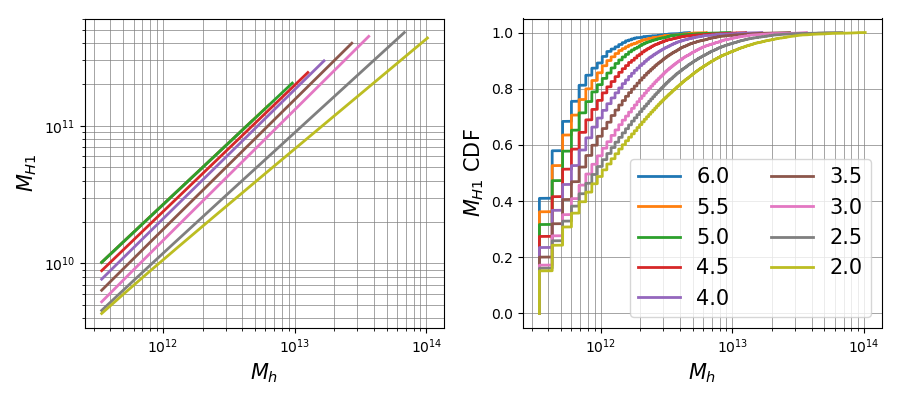
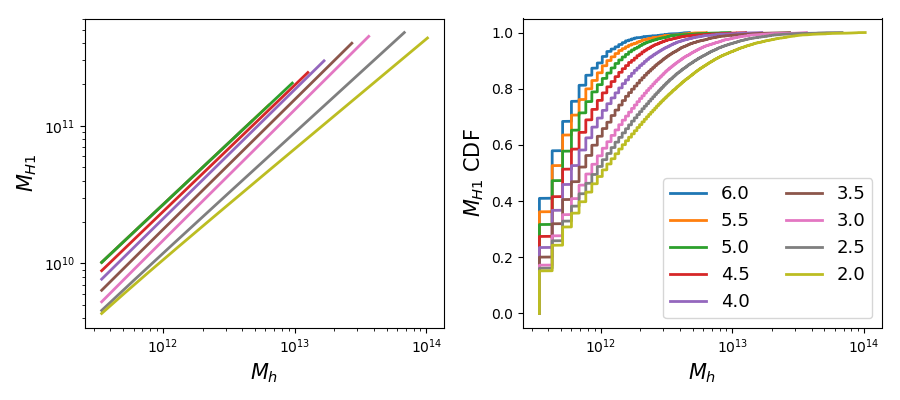
save mesh, power, calc bias

diff --git a/code/simpleplots.py b/code/simpleplots.py
@@ -19,8 +19,8 @@ zzfiles = [round(tools.atoz(aa), 2) for aa in aafiles]
 #Paramteres
 #Maybe set up to take in as args file?
 bs, nc = 256, 256
-#ncsim, sim, prefix = 256, 'lowres/%d-9100-fixed'%256, 'lowres'
-ncsim, sim, prefix = 2560, 'highres/%d-9100-fixed'%2560, 'highres'
+ncsim, sim, prefix = 256, 'lowres/%d-9100-fixed'%256, 'lowres'
+#ncsim, sim, prefix = 2560, 'highres/%d-9100-fixed'%2560, 'highres'
 
 
 
@@ -32,21 +32,19 @@ def plotH1pk(fname, nc=256, fsize=15):
     fig, ax = plt.subplots(1, 2, figsize = (9,4)) # 
     for i, aa in enumerate(aafiles):
         zz = zzfiles[i]
-        halos = BigFileCatalog(project + sim+ '/fastpm_%0.4f/halocat/'%aa)
-        hmass, h1mass = halos["Mass"].compute(), halos['H1mass'].compute()
-        hpos = halos['Position'].compute()
+        print(zz)
+        path = project + sim+ '/fastpm_%0.4f/'%aa
+        k, pkm = np.loadtxt(path + 'pkm.txt').T[0], np.loadtxt(path + 'pkm.txt').T[1] 
+        pkh = np.loadtxt(path + 'pkhmass.txt').T[1]
+        pkhp = np.loadtxt(path + 'pkhpos.txt').T[1]
+        pkh1 = np.loadtxt(path + 'pkh1mass.txt').T[1]
+        pkhm = np.loadtxt(path + 'pkhmassxm.txt').T[1]
+        pkh1m = np.loadtxt(path + 'pkh1massxm.txt').T[1]
+        pkhpm = np.loadtxt(path + 'pkhposxm.txt').T[1]
         
-
-        hpmesh = pm.paint(hpos)
-        hmesh = pm.paint(hpos, mass=hmass)
-        h1mesh = pm.paint(hpos, mass=h1mass)
-        pkh = FFTPower(hmesh/hmesh.cmean(), mode='1d').power
-        pkhp = FFTPower(hpmesh/hpmesh.cmean(), mode='1d').power
-        pkh1 = FFTPower(h1mesh/h1mesh.cmean(), mode='1d').power
-        
-        ax[0].plot(pkh['k'], pkh['power'], label=zz, color='C%d'%i)
-        ax[0].plot(pkh['k'], pkhp['power'], label=zz, ls="--", color='C%d'%i)
-        ax[1].plot(pkh1['k'], pkh1['power'], label=zz, color='C%d'%i) # 
+        ax[0].plot(k, pkh, label=zz, color='C%d'%i)
+        ax[0].plot(k, pkhp, label=zz, ls="--", color='C%d'%i)
+        ax[1].plot(k, pkh1, label=zz, color='C%d'%i) # 
     
     ax[1].legend(ncol=2, fontsize=13)
     ax[0].set_ylabel('P(k) Halos (Mass/Position)', fontsize=fsize)
@@ -54,60 +52,59 @@ def plotH1pk(fname, nc=256, fsize=15):
 
     for axis in ax: 
         axis.set_xlim(2e-2, 1)
-        axis.set_ylim(9e1, 2e4)
+        axis.set_ylim(9e1, 5e4)
         axis.loglog()
-        axis.grid(which='both', lw=0.5, color='gray')
+        #axis.grid(which='both', lw=0.5, color='gray')
+    fig.tight_layout()
     fig.savefig(figpath + fname)
 
 
-##
-##def plotH1bias(fname, nc=256, fsize=15):
-##    '''plot the power spectrum of halos and H1 on 'nc' grid'''
-##
-##    pm = ParticleMesh(BoxSize = bs, Nmesh = [nc, nc, nc])
-##
-##    fig, ax = plt.subplots(1, 2, figsize = (9,4)) # 
-##    for i, aa in enumerate(aafiles):
-##        zz = zzfiles[i]
-##        dmcat = BigFileCatalog(scratch + sim + '/fastpm_%0.4f/'%aa, dataset='1')
-##        halos = BigFileCatalog(project + sim+ '/fastpm_%0.4f/halocat/'%aa)
-##        hmass, h1mass = halos["Mass"].compute(), halos['H1mass'].compute()
-##        hpos = halos['Position'].compute()
-##        
-##        dmesh = pm.paint(dmcat['Position'])
-##        hpmesh = pm.paint(hpos)
-##        hmesh = pm.paint(hpos, mass=hmass)
-##        h1mesh = pm.paint(hpos, mass=h1mass)
-##        pkd = FFTPower(dmesh/dmesh.cmean(), mode='1d').power
-##        pkh = FFTPower(hmesh/hmesh.cmean(), mode='1d').power
-##        pkhp = FFTPower(hpmesh/hpmesh.cmean(), mode='1d').power
-##        pkh1 = FFTPower(h1mesh/h1mesh.cmean(), mode='1d').power
-##        pkx = FFTPower(hmesh/hmesh.cmean(), dmesh/dmesh.cmean(), mode='1d').power
-##        pkx1 = FFTPower(h1mesh/h1mesh.cmean(), dmesh/dmesh.cmean(), mode='1d').power
-##
-##        b1h = pkh['power']/pkd['power']
-##        b1h1 = pkh1['power']/pkd['power']
-##        b1hp = pkhp['power']/pkd['power']
-##        k = pkh['k']
-##        ax[0, 0].plot(k, b1h, label=zz, color='C%d'%i)
-##        ax[0, 1].plot(k, b1h1, label=zz, color='C%d'%i)
-##        ax[1, 0].plot(k, b1hp, label=zz, color='C%d'%i)
-##    
-##    ax[1].legend(fontsize=fsize)
-##    ax[0].set_ylabel('P(k) Halos (Mass/Position)', fontsize=fsize)
-##    ax[1].set_ylabel('P(k) H1 Mass', fontsize=fsize)
-##
-##    for axis in ax: 
-##        axis.loglog()
-##        axis.grid(which='both', lw=0.5, color='gray')
-##    fig.savefig(figpath + fname)
-##
+
+def plotH1bias(fname, nc=256, fsize=15):
+    '''plot the power spectrum of halos and H1 on 'nc' grid'''
+
+    pm = ParticleMesh(BoxSize = bs, Nmesh = [nc, nc, nc])
+
+    fig, ax = plt.subplots(1, 2, figsize = (9,4), sharex=True, sharey=True ) # 
+    for i, aa in enumerate(aafiles):
+        zz = zzfiles[i]
+        print(zz)
+        path = project + sim+ '/fastpm_%0.4f/'%aa
+        k, pkm = np.loadtxt(path + 'pkm.txt').T[0], np.loadtxt(path + 'pkm.txt').T[1] 
+        pkh = np.loadtxt(path + 'pkhmass.txt').T[1]
+        pkhp = np.loadtxt(path + 'pkhpos.txt').T[1]
+        pkh1 = np.loadtxt(path + 'pkh1mass.txt').T[1]
+        pkhm = np.loadtxt(path + 'pkhmassxm.txt').T[1]
+        pkh1m = np.loadtxt(path + 'pkh1massxm.txt').T[1]
+        pkhpm = np.loadtxt(path + 'pkhposxm.txt').T[1]
+
+        #b1h = pkh/pkd
+        #b1hp = pkhp/pkd
+        b1h1 = pkh1m/pkm
+        b1h1sq = pkh1/pkm
+        ax[0].plot(k, b1h1, label=zz, color='C%d'%i)
+        ax[1].plot(k, b1h1sq**0.5, label=zz, color='C%d'%i)
+    
+    ax[1].legend(ncol=2, fontsize=13, loc='lower right')
+    ax[0].set_ylabel('$P_{H1-m}/P_m$', fontsize=fsize)
+    ax[1].set_ylabel('$\sqrt{P_{H1}/P_m}$', fontsize=fsize)
+
+    for axis in ax: 
+        axis.set_ylim(0, 10)
+        axis.set_xscale('log')
+        axis.set_xlabel('k(h/Mpc)')
+        #axis.grid(which='both', lw=0.5, color='gray')
+    fig.tight_layout()
+    fig.savefig(figpath + fname)
+
+
 
 def plotH1mass(fname, fsize=15):
     '''plot cdf of H1'''
     fig, ax = plt.subplots(1, 2, figsize = (9, 4))
     for i, aa in enumerate(aafiles):
         zz = zzfiles[i]
+        print(zz)
         halos = BigFileCatalog(project + sim+ '/fastpm_%0.4f/halocat/'%aa)
         hmass, h1mass = halos["Mass"].compute(), halos['H1mass'].compute()
         ax[0].plot(hmass, h1mass, label=zz, lw=2)
@@ -121,7 +118,7 @@ def plotH1mass(fname, fsize=15):
     ax[1].set_ylabel('$M_{H1}$ CDF', fontsize=fsize)
     for axis in ax: 
         axis.set_xlabel('$M_h$', fontsize=fsize)
-        axis.grid(which='both', lw=0.5, color='gray')
+        #axis.grid(which='both', lw=0.5, color='gray')
     fig.tight_layout()
     fig.savefig(figpath + fname)
 
@@ -134,16 +131,19 @@ def plot_params(fname, fsize=15):
     zzp = np.arange(0, 6, 1)
     fig, ax = plt.subplots(1, 3, figsize=(12, 4))
     ax[0].plot(zz, dohod.alphaz(zz))
+    ax[0].plot(zz, dohod.alphaz(zz, mwfits=True), ls="--")
     ax[0].plot(zzp, dohod.alphaz(zzp), marker='o')
     ax[0].set_title('alpha(z)')
 
     ax[1].plot(zz, dohod.M0z(zz))
     ax[1].plot(zzp, dohod.M0z(zzp), marker='o')
+    ax[1].plot(zz, dohod.M0z(zz, mwfits=True), ls="--")
     ax[1].set_yscale('log')
     ax[1].set_title('M0(z)')
 
     ax[2].plot(zz, dohod.Mminz(zz))
     ax[2].plot(zzp, dohod.Mminz(zzp), marker='o')
+    ax[2].plot(zz, dohod.Mminz(zz, mwfits=True), ls="--")
     ax[2].set_yscale('log')
     ax[2].set_title('Mmin(z)')
     fig.suptitle('Parameters from Table 6 of arxiv:1804.09180')
@@ -152,6 +152,7 @@ def plot_params(fname, fsize=15):
 
 if __name__=="__main__":
 
-    #plot_params('paramz.png')
+    plot_params('paramz.png')
     #plotH1mass(prefix + '-H1mass.png')
     plotH1pk(prefix + '-H1pk.png')
+    plotH1bias(prefix + '-H1bias.png')

diff --git a/code/simplehod.py b/code/simplehod.py
@@ -1,11 +1,10 @@
 import numpy as np
 from pmesh.pm import ParticleMesh
 from nbodykit.lab import BigFileCatalog, BigFileMesh, FFTPower
+from nbodykit.source.mesh.field import FieldMesh
 import sys
 sys.path.append('./utils')
 import tools, dohod             # 
-import matplotlib.pyplot as plt
-plt.switch_backend('Agg')
 
 #Global, fixed things
 scratch = '/global/cscratch1/sd/yfeng1/m3127/'
@@ -17,9 +16,9 @@ zzfiles = [round(tools.atoz(aa), 2) for aa in aafiles]
 #Paramteres
 #Maybe set up to take in as args file?
 bs, nc = 256, 256
-sim = 'lowres/%d-9100-fixed'%nc
-#sim = 'highres/%d-9100-fixed'%nc
-#pm = ParticleMesh(BoxSize = bs, Nmesh = [nc, nc, nc])
+ncsim, sim, prefix = 256, 'lowres/%d-9100-fixed'%256, 'lowres'
+#ncsim, sim, prefix = 2560, 'highres/%d-9100-fixed'%2560, 'highres'
+
 
 
 def readincatalog(aa, matter=False):
@@ -35,8 +34,18 @@ def readincatalog(aa, matter=False):
     else: return halocat
 
 
-def make_galcat(aa,save=True):
+def savecatalogmesh(bs, nc, aa):
+    dmcat = BigFileCatalog(scratch + sim + '/fastpm_%0.4f/'%aa, dataset='1')
+    pm = ParticleMesh(BoxSize = bs, Nmesh = [nc, nc, nc])
+    mesh = pm.paint(dmcat['Position'])
+    mesh = FieldMesh(mesh)
+    path = project +  sim + '/fastpm_%0.4f/'%aa + '/dmesh_N%04d'%nc
+    mesh.save(path, dataset='1', mode='real')
+    
 
+
+def make_galcat(aa,save=True):
+    '''do HOD with Zheng model using nbodykit'''
     zz = tools.atoz(aa)
     print('Redshift = %0.2f'%zz)
     halocat = readincatalog(aa)
@@ -50,7 +59,7 @@ def make_galcat(aa,save=True):
 
 
 def assignH1mass(aa, save=True):
-
+    '''assign H1 masses to halos based on numbers from arxiv...'''
     zz = tools.atoz(aa)
     print('Redshift = %0.2f'%zz)
 
@@ -68,11 +77,53 @@ def assignH1mass(aa, save=True):
         print('Halos saved at path\n%s'%ofolder)
 
 
+def measurepk(nc=512):
+    '''plot the power spectrum of halos and H1 on 'nc' grid'''
+
+    pm = ParticleMesh(BoxSize = bs, Nmesh = [nc, nc, nc])
+
+    for i, aa in enumerate(aafiles):
+        ofolder = project + '/%s/fastpm_%0.4f/'%(sim, aa)
+        zz = zzfiles[i]
+        print(zz)
+        dm = BigFileMesh(project + sim + '/fastpm_%0.4f/'%aa + '/dmesh_N%04d'%nc, '1').paint()
+        halos = BigFileCatalog(project + sim + '/fastpm_%0.4f/halocat/'%aa)
+        hmass, h1mass = halos["Mass"].compute(), halos['H1mass'].compute()
+        hpos = halos['Position'].compute()
+        
+        print("paint")
+        hpmesh = pm.paint(hpos)
+        hmesh = pm.paint(hpos, mass=hmass)
+        h1mesh = pm.paint(hpos, mass=h1mass)
+        print("measure powers")
+        pkm = FFTPower(dm/dm.cmean(), mode='1d').power
+        pkh = FFTPower(hmesh/hmesh.cmean(), mode='1d').power
+        pkhp = FFTPower(hpmesh/hpmesh.cmean(), mode='1d').power
+        pkh1 = FFTPower(h1mesh/h1mesh.cmean(), mode='1d').power
+        pkhm = FFTPower(hmesh/hmesh.cmean(), second=dm/dm.cmean(), mode='1d').power
+        pkh1m = FFTPower(h1mesh/h1mesh.cmean(), second=dm/dm.cmean(), mode='1d').power
+        pkhpm = FFTPower(hpmesh/hpmesh.cmean(), second=dm/dm.cmean(), mode='1d').power
+
+        def savebinned(path, binstat, header):
+            k, p, modes = binstat['k'].real, binstat['power'].real, binstat['modes'].real
+            np.savetxt(path, np.stack((k, p, modes), axis=1), header=header)
+            
+        savebinned(ofolder+'pkhpos.txt', pkhp, header='k, P(k), Nmodes')
+        savebinned(ofolder+'pkhmass.txt', pkh, header='k, P(k), Nmodes')  
+        savebinned(ofolder+'pkh1mass.txt', pkh1, header='k, P(k), Nmodes')
+        savebinned(ofolder+'pkm.txt', pkm, header='k, P(k), Nmodes')
+        savebinned(ofolder+'pkhposxm.txt', pkhpm, header='k, P(k), Nmodes')
+        savebinned(ofolder+'pkhmassxm.txt', pkhm, header='k, P(k), Nmodes')
+        savebinned(ofolder+'pkh1massxm.txt', pkh1m, header='k, P(k), Nmodes')
+
+
     
 
 if __name__=="__main__":
 
     for aa in aafiles:
         print(aa)
-        assignH1mass(aa=aa)
+        #assignH1mass(aa=aa)
+        #savecatalogmesh(bs=bs, nc=256, aa=aa)
+    measurepk(nc=256)
     #make_galcat(aa=0.2000)

diff --git a/code/utils/dohod.py b/code/utils/dohod.py
@@ -55,39 +55,63 @@ def make_galcat(fofcat, ofolder='', z=0, sortcen=False, sortsat=False, sigc=0.21
     return galcat
 
 
-def Az(z):
+def Az(z, mwfits=False):
     '''Taken from table 6 of arxiv:1804.09180'''
     zz = np.array((0, 1, 2, 3, 4, 5))
     yy = np.ones_like(zz)
     return np.interp(z, zz, yy)
 
-def alphaz(z):
+def alphaz(z, mwfits=False):
     '''Taken from table 6 of arxiv:1804.09180'''
-    zz = np.array((0, 1, 2, 3, 4, 5))
-    yy = np.array((0.49, 0.76, 0.80, 0.95, 0.94, 0.90))
-    return np.interp(z, zz, yy)
+    if mwfits:
+        return (1+2*z)/(2+2*z)
+    else:
+        zz = np.array((0, 1, 2, 3, 4, 5))
+        yy = np.array((0.49, 0.76, 0.80, 0.95, 0.94, 0.90))
+        return np.interp(z, zz, yy)
 
-def M0z(z, loginterp=True):
+def M0z(z, loginterp=True, mwfits=False):
     '''Taken from table 6 of arxiv:1804.09180'''
     zz = np.array((0, 1, 2, 3, 4, 5))
     yy = np.array((2.1e9, 4.6e8, 4.9e8, 9.2e7, 6.4e7, 9.5e7))
     if loginterp: return 10**np.interp(z, zz, np.log10(yy))
     else: return np.interp(z, zz, yy)
 
-def Mminz(z, loginterp=True):
+def Mminz(z, loginterp=True, mwfits=False):
     '''Taken from table 6 of arxiv:1804.09180'''
-    zz = np.array((0, 1, 2, 3, 4, 5))
-    yy = np.array((5.2e10, 2.6e10, 2.1e10, 4.8e9, 2.1e9, 1.9e9))
-    if loginterp: return 10**np.interp(z, zz, np.log10(yy))
-    else: return np.interp(z, zz, yy)
+    if mwfits:
+        zp1 = z+1
+        return 1e10*(7.5-2.7*zp1+0.25*zp1**2)
+    else:
+        zz = np.array((0, 1, 2, 3, 4, 5))
+        yy = np.array((5.2e10, 2.6e10, 2.1e10, 4.8e9, 2.1e9, 1.9e9))
+        if loginterp: return 10**np.interp(z, zz, np.log10(yy))
+        else: return np.interp(z, zz, yy)
 
 
-def assignH1mass(halos, z=0):
+def martinfits():
+    zp1 = 1.0/aa
+    zz  = zp1-1    
+    # Set the parameters of the HOD, using the "simple" form.
+    #   MHI ~ M0  x^alpha Exp[-1/x]       x=Mh/Mmin
+    # from the Appendix of https://arxiv.org/pdf/1804.09180.pdf, Table 6.    
+    # Fits valid for 0<z<6:
+    
+    mcut= 1e10*(7.5-2.7*zp1+0.25*zp1**2)
+    alp = (1+2*zz)/(2+2*zz)
+    
+    # Work out the HI mass/weight per halo -- ignore prefactor.    
+    xx  = mhalo/mcut+1e-10
+    mHI = xx**alp * np.exp(-1/xx)
+    return mHI
+    
+
+def assignH1mass(halos, z=0, mwfits=False):
     '''Assign H1 mass based on expresion in overleaf Eq. 4.1'''
     #A = Az(z)
-    mmin = Mminz(z)
-    m0 = M0z(z)
-    alpha = alphaz(z)
+    mmin = Mminz(z, mwfits=mwfits)
+    m0 = M0z(z, mwfits=mwfits)
+    alpha = alphaz(z, mwfits=mwfits)
     
     mass = halos['Mass'].compute()
     xx = mass/mmin
